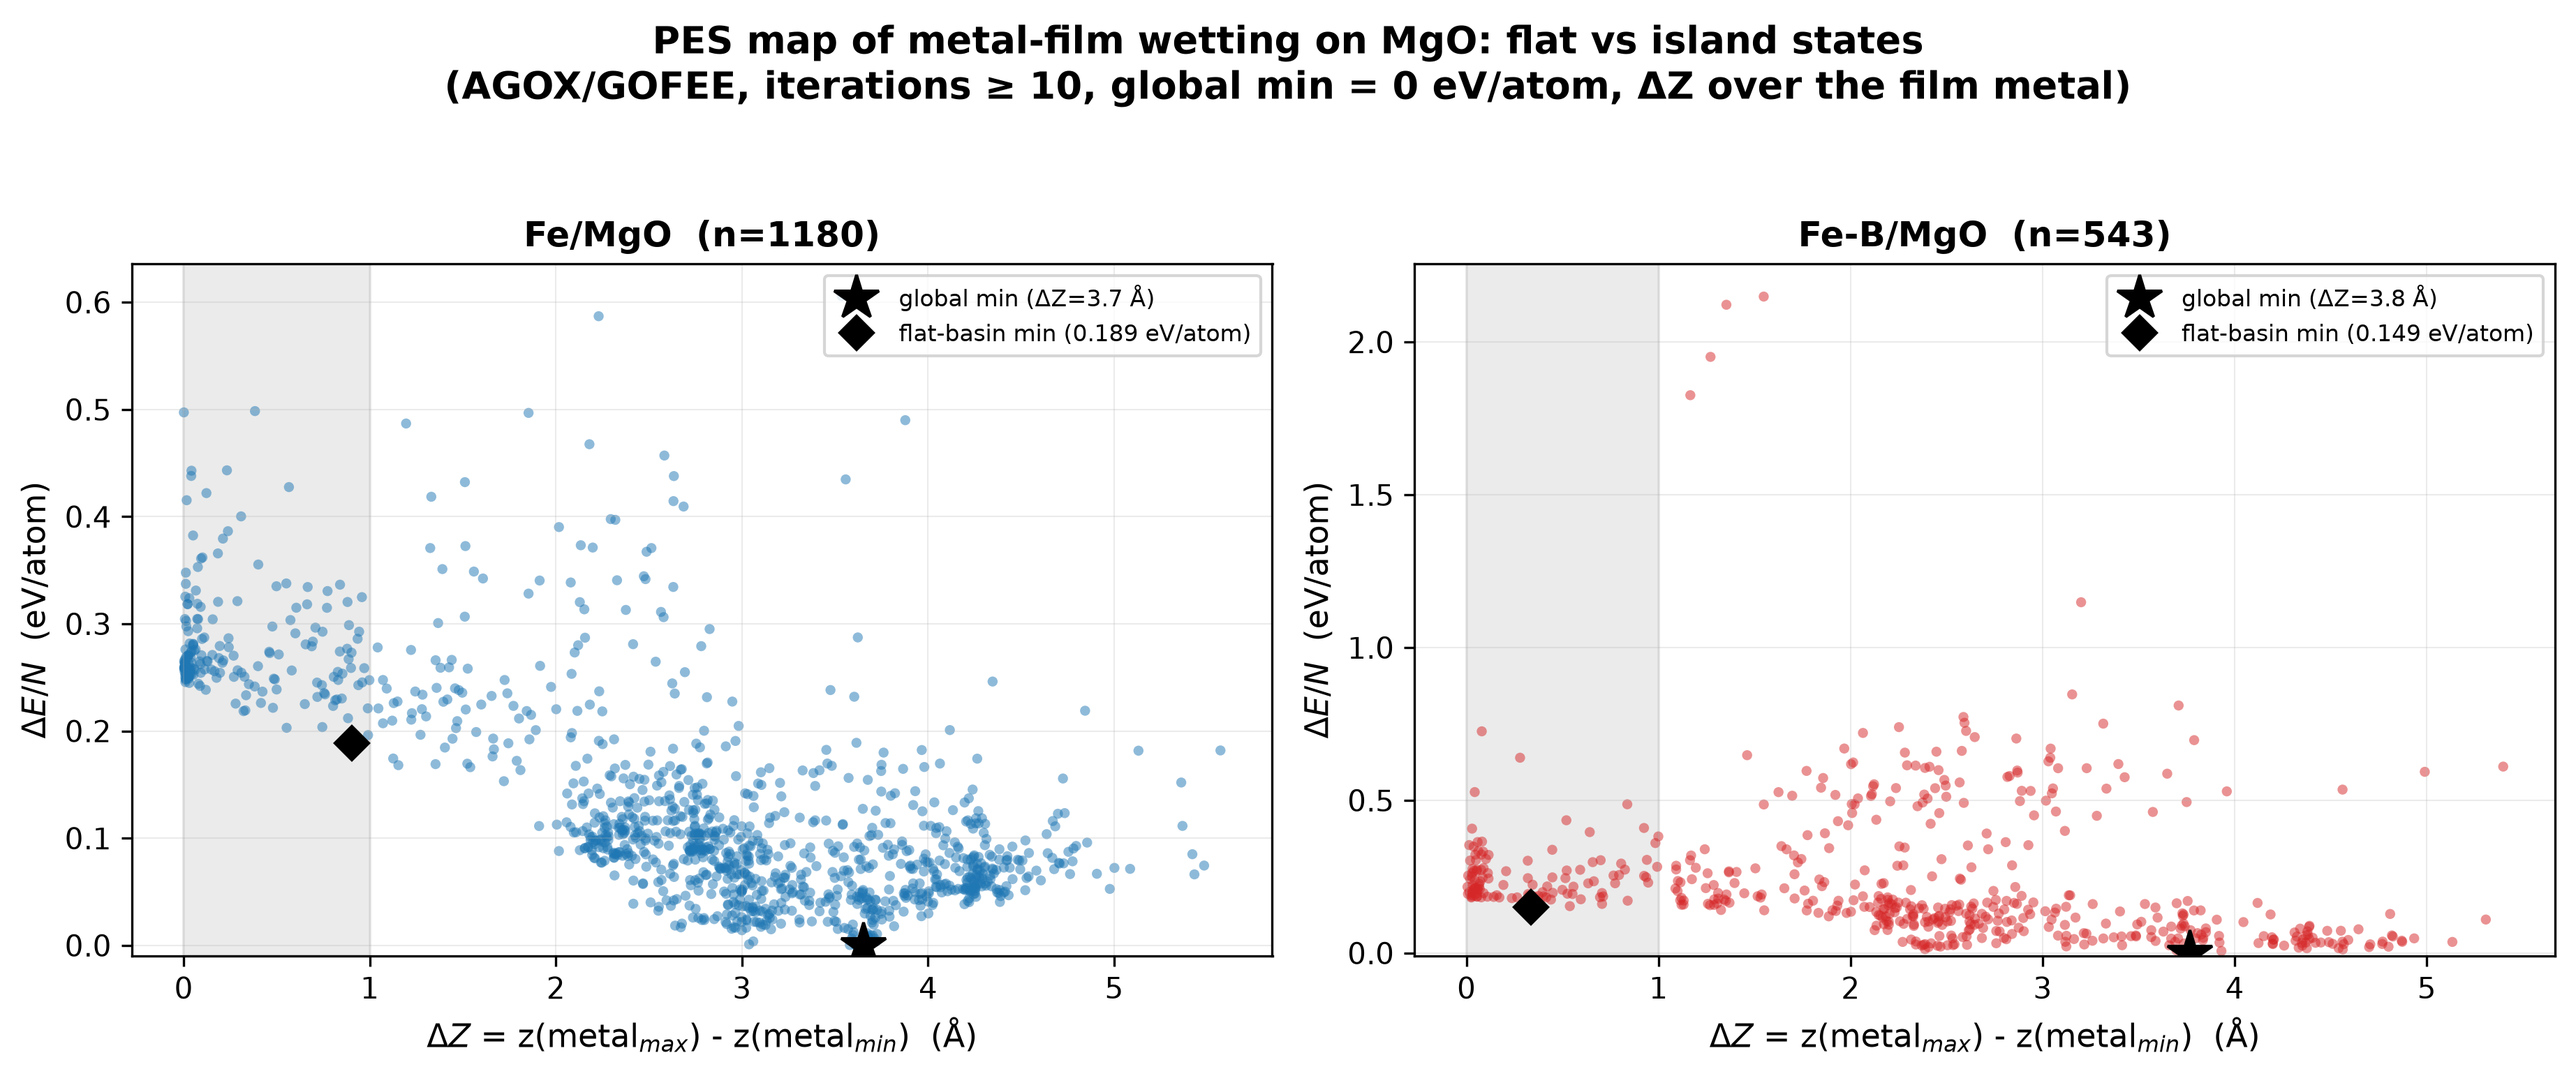
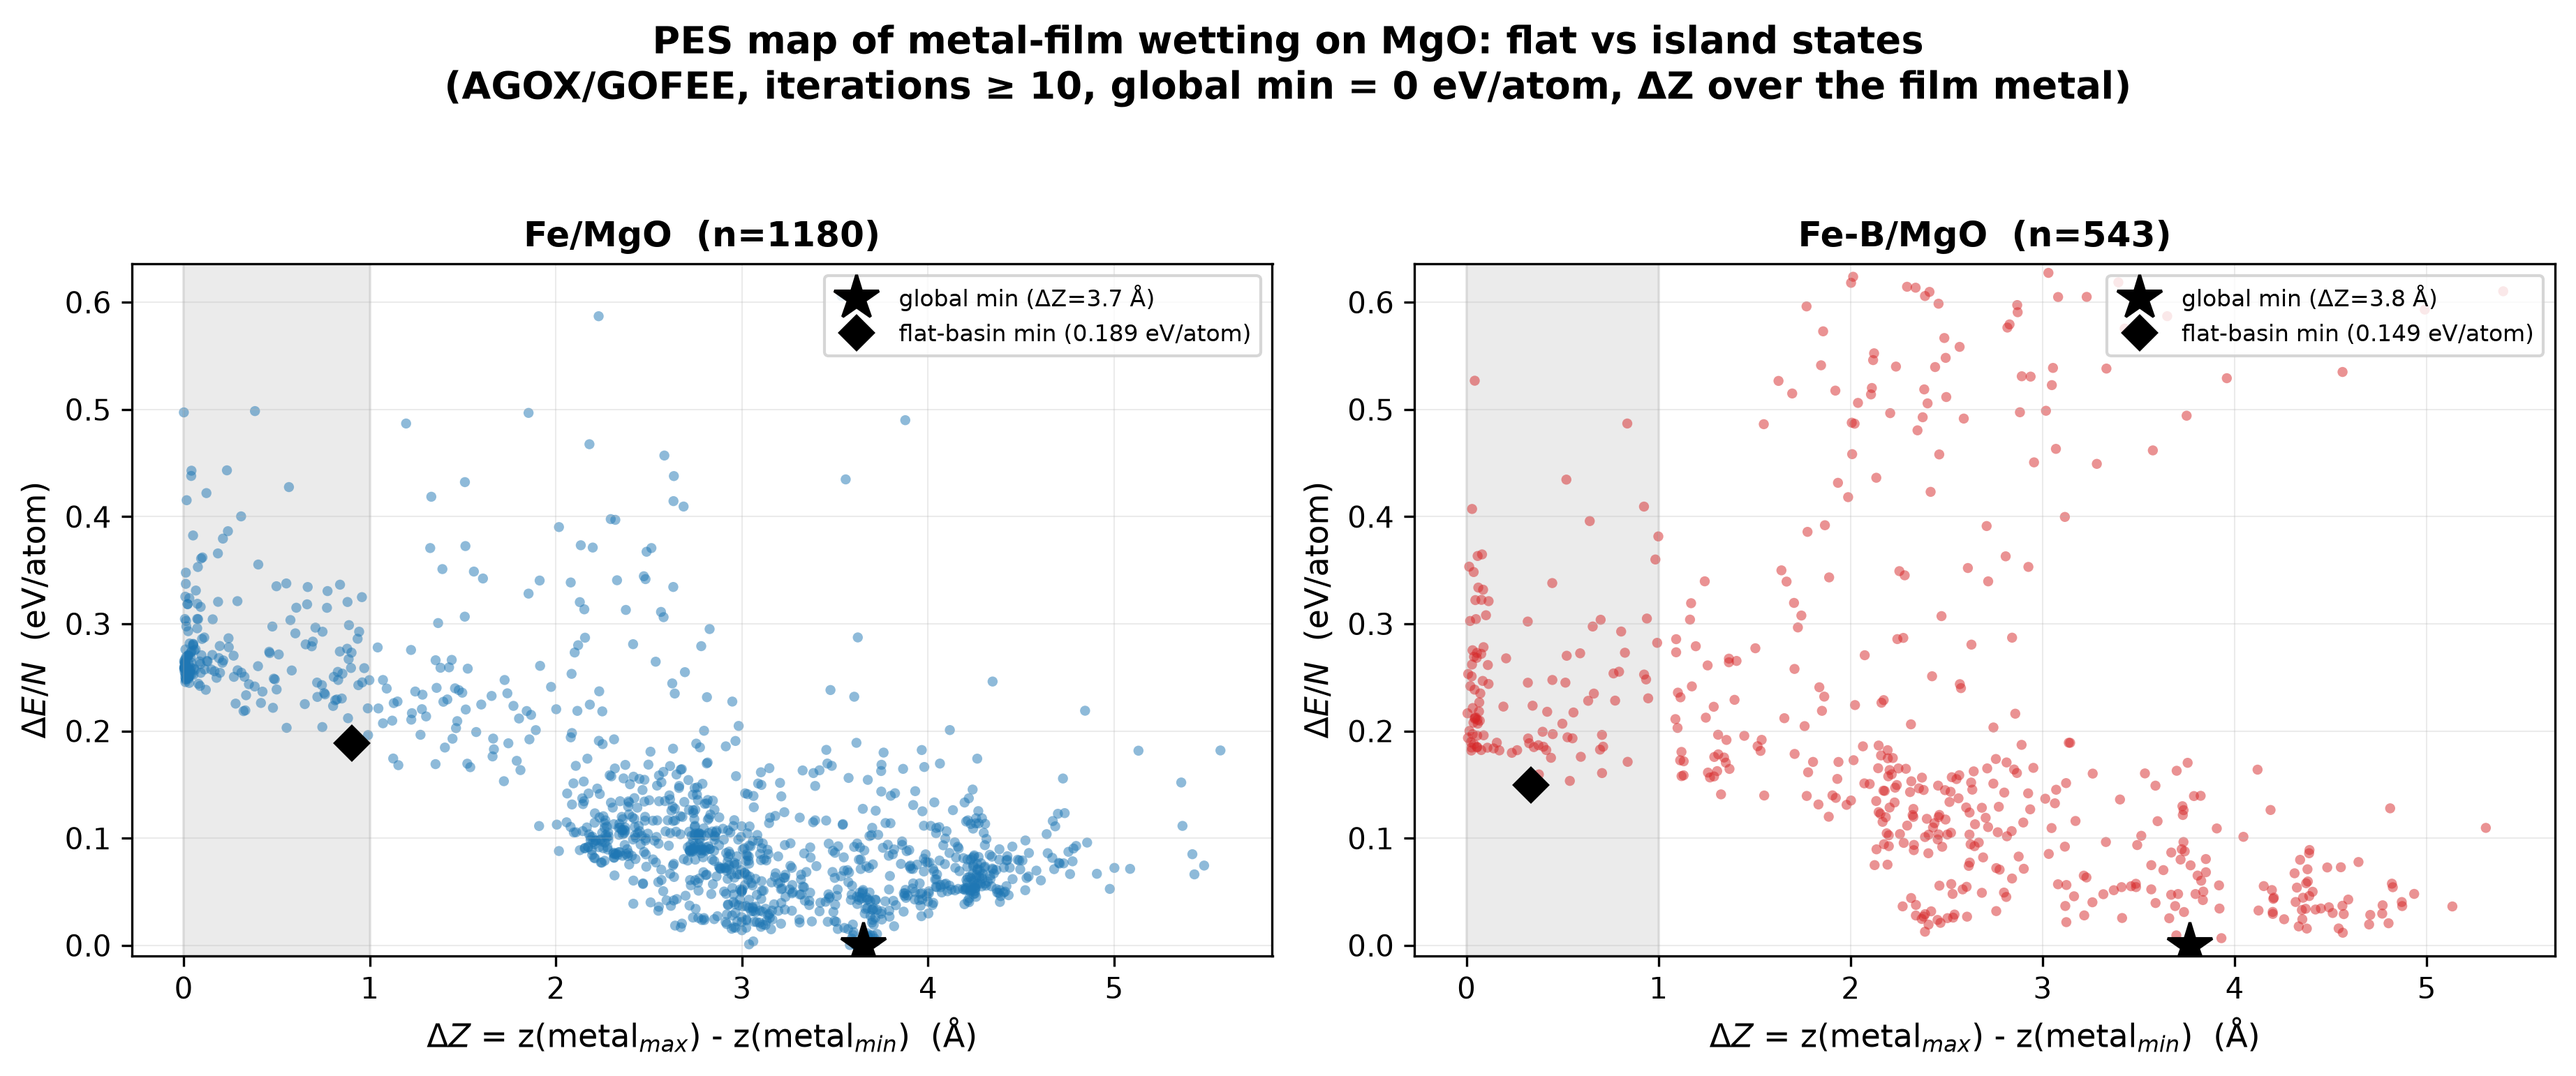
paperDemo: shared PES energy range (Fe/MgO ceiling) + mgo_on_fe label placement fix
Both panels of pes_2_systems.png now use one range, (-0.01, 0.636) eV/atom,
anchored to the boron-free Fe/MgO model; 25/543 Fe-B points (4.6%) lie above
it and are not drawn, printed on every run and recorded in paper_status.md.

mgo_on_fe.png: the branch labels used get_yaxis_transform(), whose y is in
data units, so 'flat film lower' was drawn at 1.0 eV/atom - ~4.6 panel-heights
above the top edge, off the figure. Now transAxes, at the midpoint of the band
each names; verified against the axes box.

No number moved: mgo_on_fe.json differs in its version field only.

diff --git a/_paperDemo/scripts/plot_pes_figure.py b/_paperDemo/scripts/plot_pes_figure.py
@@ -10,9 +10,11 @@ Scope (v9): the paper studies the Fe host only, Fe/MgO and Fe-B/MgO, so this wri
 grid, the summary and the file name grow accordingly.
 
 NOTE — figure design is the scientist's call.  The mechanical scope changes made here (panel
-count, output file name, data-driven y-limits so nothing is clipped) are recorded with the open
-styling questions in `figures/INSTRUCTION.md`; do not restyle this script without reading it.
+count, output file name, the shared energy range anchored to the boron-free reference) are recorded
+with the open styling questions in `figures/INSTRUCTION.md`; do not restyle this script without
+reading it.
 """
+__version__ = '1.2.0'
 import matplotlib; matplotlib.use('Agg')
 import matplotlib.pyplot as plt
 import numpy as np, csv, os, sys
@@ -44,6 +46,14 @@ def get(system):
 
 
 # ---- Figure 1: one PES map per system ----
+# One energy range for every panel, anchored to the BORON-FREE Fe/MgO model (the reference), so the
+# two systems are read on a single scale.  This is a deliberate ceiling, not a data-driven union:
+# the Fe-B/MgO searches reach much higher dE/N (up to 2.15 eV/atom), and drawing the reference on
+# that union range would compress the flat-island region that the figure is about.  Structures above
+# the ceiling are therefore NOT shown in the Fe-B panel; their number is printed below so it stays
+# on the record.  (Scientist's decision, 2026-09-18.)
+REFERENCE = SYSTEMS[0][0]
+Y_LIM = (-0.01, max(0.5, 1.05 * float(get(REFERENCE)[1].max())))
 n = len(SYSTEMS)
 ncols = min(2, n)
 nrows = int(np.ceil(n / ncols))
@@ -64,11 +74,17 @@ for ax, (system, lab) in zip(axes.ravel(), SYSTEMS):
     ax.set_xlabel(r'$\Delta Z$ = z(metal$_{max}$) - z(metal$_{min}$)  (Å)', fontsize=11)
     ax.set_ylabel(r'$\Delta E/N$  (eV/atom)', fontsize=11)
     ax.set_title(f'{lab}  (n={len(dZ)})', fontsize=12, fontweight='bold')
-    ax.set_ylim(-0.01, max(0.5, 1.05 * float(dE.max())))
+    ax.set_ylim(*Y_LIM)
     ax.legend(fontsize=8, loc='upper right')
     ax.grid(alpha=0.25, lw=0.5)
 for ax in axes.ravel()[n:]:                            # hide any unused panel
     ax.axis('off')
+for system, lab in SYSTEMS:                            # what the shared ceiling hides
+    dE = get(system)[1]
+    k = int((dE > Y_LIM[1]).sum())
+    if k:
+        print(f'  {lab}: {k} of {len(dE)} points ({100 * k / len(dE):.1f} %) above the shared '
+              f'{Y_LIM[1]:.3f} eV/atom ceiling — not shown in the panel')
 fig.suptitle('PES map of metal-film wetting on MgO: flat vs island states\n'
              '(AGOX/GOFEE, iterations \u2265 10, global min = 0 eV/atom, ΔZ over the film metal)',
              fontsize=13, fontweight='bold')

diff --git a/_paperDemo/scripts/mgo_on_fe.py b/_paperDemo/scripts/mgo_on_fe.py
@@ -33,7 +33,7 @@ from agox.databases import Database
 sys.path.insert(0, os.path.dirname(os.path.abspath(__file__)))
 from run_selection import select_completed  # noqa: E402
 
-VERSION = '2.0.0'
+VERSION = '2.0.1'
 FORMULA = 'Fe25Mg25O25'
 MIN_ITER = 10
 FLAT_DZ = 1.0
@@ -221,9 +221,15 @@ def main():
     axes[1].set_title('(b) Which branch is the ground state', fontweight='bold')
     axes[1].grid(axis='y', alpha=0.25, lw=0.5)
     ax2 = axes[1].twinx(); ax2.set_ylim(axes[1].get_ylim()); ax2.set_yticks([])
-    ax2.text(1.02, 0.0, 'island lower', transform=ax2.get_yaxis_transform(), fontsize=8.5,
+    # Branch labels in the right margin.  BOTH coordinates are axes fractions: an earlier version
+    # used get_yaxis_transform(), whose y is in DATA units, so 'flat film lower' was drawn at
+    # y = 1.0 eV/atom - far above a panel whose range is about [-0.02, 0.2] - and floated off the
+    # top-right corner of the figure.  Each label sits at the midpoint of the region it names.
+    _ylo, _yhi = axes[1].get_ylim()
+    _f0 = (0.0 - _ylo) / (_yhi - _ylo)          # the zero line, as an axes fraction
+    ax2.text(1.02, 0.5 * _f0, 'island lower', transform=ax2.transAxes, fontsize=8.5,
              color='0.35', va='center')
-    ax2.text(1.02, 1.0, 'flat film lower', transform=ax2.get_yaxis_transform(), fontsize=8.5,
+    ax2.text(1.02, 0.5 * (1.0 + _f0), 'flat film lower', transform=ax2.transAxes, fontsize=8.5,
              color='0.35', va='center')
 
     fig.suptitle('Ground-state comparison: the deposited film, Fe-on-MgO vs the inverted stack',

diff --git a/_paperDemo/experiment_log.md b/_paperDemo/experiment_log.md
@@ -1312,3 +1312,47 @@ experimental lattice constants and cite both. The main-text model keeps its *com
 2.87019 Å (a recorded caveat: the sweep's f = 0 endpoint is a reference, not identical to the main
 text). All 15 `\cite{}` keys in `sections/` resolve against `references.bib`; none orphaned.
 
+## 2026-09-18 — figure corrections: one shared PES energy range; the mgo_on_fe branch labels
+
+Two corrections requested by the scientist. Neither changes a number, a claim or a section; both are
+figure-level.
+
+**1. `pes_2_systems.png` — a common energy range on both panels.** Each panel had been framed on its
+own data, so the Fe/MgO panel spanned 0–0.64 eV/atom while the Fe-B/MgO panel spanned 0–2.26; side
+by side, a given ΔE/N meant two different things. Asked which common range to use, the scientist
+chose the **Fe/MgO ceiling** (option: "shared range = Fe/MgO's ceiling"), so both panels are now
+**(−0.01, 0.636) eV/atom**, the boron-free model being the reference. This is a deliberate ceiling
+rather than the union of the data: the union (2.256) would have squashed the flat–island region the
+figure exists to show.
+
+- **Consequence, accepted:** 25 of the 543 Fe-B/MgO points (**4.6 %**, 2 of them inside the flat
+  window) lie above the ceiling and are not drawn. `scripts/plot_pes_figure.py` prints the count on
+  every run, and `paper_status.md` records it against the float table, so the truncation is on the
+  record without being annotated on the figure. No analysis, table or claim value is affected.
+- The reference is the first system in `SYSTEMS_IN_SCOPE` (`femgo`), so `--all-systems` keeps the
+  same rule.
+
+**2. `mgo_on_fe.png` — the branch labels sat outside the figure.** "island lower" / "flat film
+lower" were drawn with `transform=ax2.get_yaxis_transform()`, whose **y coordinate is in data units,
+not axes fractions**. At `y=1.0` that put "flat film lower" at 1.0 eV/atom, while panel (b)'s range
+is (−0.026, 0.199) — about 0.8 eV/atom, roughly 4.6 panel-heights above the top edge, hence the
+report that it floated above the top-right corner. Both labels now use `transAxes` and sit at the
+midpoint of the band each one names, in the right margin just outside the panel.
+
+**Verification.** Both scripts pass `py_compile` under `agox_v2` and were re-run. Checked at the
+matplotlib level rather than by eye: the two PES panels report identical `ylim` = (−0.0100, 0.6359),
+and the two branch labels' rendered text boxes fall inside panel (b)'s axes box vertically. The
+regenerated `analysis/mgo_on_fe.json` differs from the previous one in its `version` field alone
+(2.0.0 → 2.0.1) — the ground state (0.386 Å, flat film), the flat-vs-island separations (+0.1888 /
+−0.0161 eV/atom) and the run-set spreads all reproduce exactly, so the frozen CLAIMS v11 numbers
+stand.
+
+**Recorded in:** `figures/INSTRUCTION.md` (a new "Changed 2026-09-18" section; item 3 of the v9 list
+annotated as superseded for the PES maps) and `paper_status.md` (float-table note, "Changed
+2026-09-18"), so this is not an undisclosed body of work. Script versions: `plot_pes_figure.py`
+1.2.0, `mgo_on_fe.py` 2.0.1.
+
+**Still open:** the figure-design questions in `figures/INSTRUCTION.md` (the `flat_state_summary.png`
+redesign, PES 1×2 vs stacked, the mgo_on_fe inset) are unchanged; the three main-text sections still
+await review, and `04_introduction.md` / `05_conclusion.md` / `06_abstract.md` are not drafted.
+

diff --git a/_paperDemo/figures/INSTRUCTION.md b/_paperDemo/figures/INSTRUCTION.md
@@ -42,9 +42,40 @@ the look of the figures, so they are listed for review.
 3. **y-limits are now data-driven** (`max(0.5, 1.05·max ΔE)`) instead of a fixed `(0, 0.5)`. The
    fixed frame clipped real structures: Fe-B has flat-basin points up to 0.726 eV/atom, over 45 %
    above the old ceiling. Revert to a fixed frame only if that clipping was intentional.
+   *(Superseded for the PES maps on 2026-09-18 — they now share one range anchored to the boron-free
+   reference, which clips the Fe-B tail by decision. See "Changed 2026-09-18" below. The
+   `flat_state_summary.png` bar frame is still per-figure data-driven.)*
 4. **Axis/figure wording:** "ΔZ over Fe+Co" → "ΔZ over the film metal" (the metric is
    `pes_analysis.METAL = ('Fe','Co')`, so boron never entered it).
 5. **`flat_vs_ground_preview.png`** now renders one row per system in scope (2, not 4).
+
+## Changed 2026-09-18 (two corrections requested by the scientist)
+
+Neither is a restyle: one is a shared axis scale, the other is a placement bug.
+
+1. **`pes_2_systems.png` — one energy range on both panels, anchored to the boron-free reference.**
+   The panels were each framed on their own data, so the Fe/MgO panel spanned 0–0.64 eV/atom while
+   the Fe-B/MgO panel spanned 0–2.26: side by side, the same ΔE/N meant two different things. Both
+   panels now use the Fe/MgO range, **(−0.01, 0.636) eV/atom**. This is a *deliberate ceiling*, not
+   the union of the data: Fe-B/MgO reaches 2.149 eV/atom, and framing the reference on that union
+   squashes the flat-island region the figure exists to show.
+   - **Consequence, by decision: 25 of the 543 Fe-B/MgO points (4.6 %, 2 of them inside the flat
+     window) lie above the ceiling and are not drawn.** `plot_pes_figure.py` prints that count on
+     every run so it stays on the record; it is not annotated on the figure.
+   - The reference panel is the first system in `SYSTEMS_IN_SCOPE` (`femgo`), so `--all-systems`
+     keeps the same rule.
+2. **`mgo_on_fe.png` — the two branch labels were outside the figure.** The labels were drawn with
+   `transform=ax2.get_yaxis_transform()`, whose **y is in data units, not axes fractions**, so
+   "flat film lower" at `y=1.0` was placed at 1.0 eV/atom — with the panel's range at
+   (−0.026, 0.199) that is ≈0.8 eV/atom, i.e. ~4.6 panel-heights above the top edge, off the
+   figure. Both labels now use `transAxes` and sit at the midpoint of the region each one names
+   (island band / flat-film band), in the right margin just outside the panel. Verified by
+   comparing rendered text boxes against the axes box.
+
+Both scripts keep their version bump convention (`plot_pes_figure.py` 1.2.0, `mgo_on_fe.py` 2.0.1);
+no number in any analysis result moved — the regenerated `analysis/mgo_on_fe.json` differs from the
+previous one in its `version` field only, and the flat-basin minima are unchanged at 0.1888 / 0.1493
+eV/atom.
 
 ## Open questions for the scientist
 

diff --git a/_paperDemo/paper_status.md b/_paperDemo/paper_status.md
@@ -184,6 +184,13 @@ are manuscript text, the mapping from each float to the file that produces it li
 `analysis/pdos_site_metrics.csv` and `figures/pdos_sites.png` are **not** to be used (superseded by
 Table S2). This is the only place the code-level names are recorded, by design.
 
+**PES panel truncation (2026-09-18, by decision).** `figures/pes_2_systems.png` draws both panels on
+one energy range anchored to the boron-free Fe/MgO model, (−0.01, 0.636) eV/atom, so that a given
+ΔE/N means the same thing in either panel. The Fe-B/MgO searches reach 2.149 eV/atom, so **25 of the
+543 Fe-B/MgO structures (4.6 %, 2 of them inside the flat window) are above the ceiling and are not
+drawn**. This is a figure property only — no analysis, claim or table value is affected. Recorded
+with the reasoning in `figures/INSTRUCTION.md`.
+
 ⚠ **The main-text figures are cited by no section.** `figures/pes_2_systems.png` (PES maps),
 `figures/flat_state_summary.png` (flat-basin comparison) and `figures/flat_vs_ground_preview.png`
 (side views) exist and are regenerated against the v9 data, but Results §2.1/§2.2 describes the
